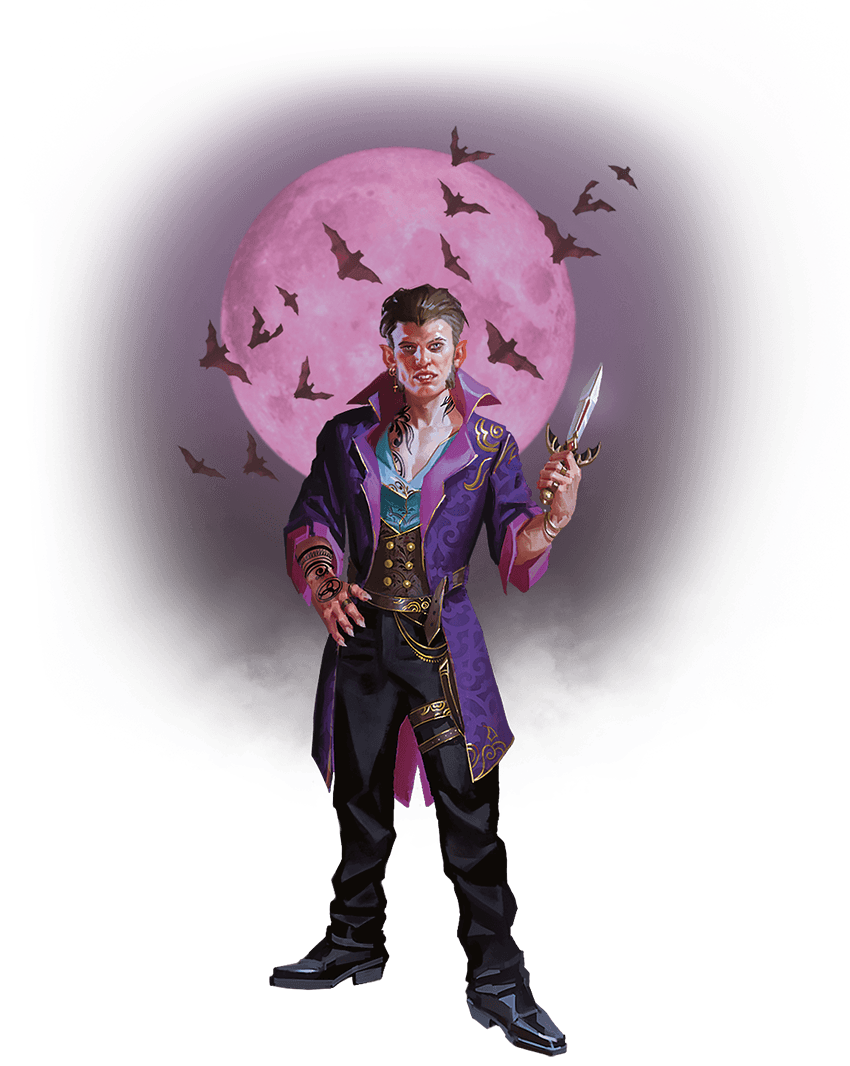
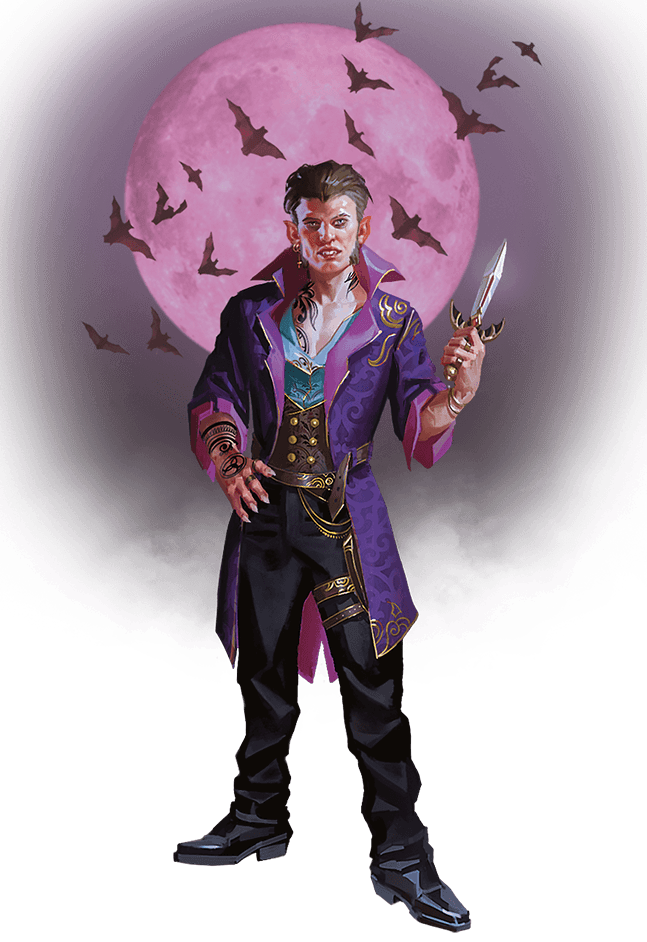
styling fixes

diff --git a/gui/step_species.py b/gui/step_species.py
@@ -70,6 +70,7 @@ class SpeciesStep(WizardStep):
         self._edit_initialized = False
         self._requires_sub_choice = False
         self._current_substep = 0
+        self._selected_species_name = ""
 
         # Two containers: grid view (substep 0) and detail view (substep 1)
         self._grid_frame = tk.Frame(self.frame, bg=COLORS["bg"])
@@ -297,6 +298,7 @@ class SpeciesStep(WizardStep):
             return
 
         self.character.species = sp
+        self._selected_species_name = sp.get("name", "")
         self._requires_sub_choice = False
         self.character.species_sub_choice = None
         self.character.species_origin_feat = None
@@ -305,15 +307,6 @@ class SpeciesStep(WizardStep):
         self.detail_source.configure(text=f"Source: {sp.get('source', 'Unknown')}")
         self.detail_desc.configure(text=sp.get("description", ""))
 
-        # Stats card
-        for w in self.stats_frame.winfo_children():
-            w.destroy()
-
-        stats_card = CardFrame(self.stats_frame, pad=SPACING["md"])
-        stats_card.pack(fill=tk.X)
-
-        stats_text = f"Type: {sp.get('creature_type', 'Humanoid')}  |  Speed: {sp.get('speed', 30)} ft"
-
         # Size choice
         for w in self.size_frame.winfo_children():
             w.destroy()
@@ -321,17 +314,9 @@ class SpeciesStep(WizardStep):
 
         size_data = sp.get("size", {})
         size_options = size_data.get("options", ["Medium"])
-        if len(size_options) <= 1:
-            self.character.size_choice = size_options[0]
-            stats_text += f"  |  Size: {size_options[0]}"
+        self.character.size_choice = size_options[0]
 
-        tk.Label(
-            stats_card.inner,
-            text=stats_text,
-            font=FONTS["body_bold"],
-            fg=COLORS["fg"],
-            bg=COLORS["bg_surface"],
-        ).pack(anchor="w")
+        self._build_species_stats_card(sp)
 
         if len(size_options) > 1:
             self.size_frame.pack(fill=tk.X, padx=SPACING["lg"], pady=(SPACING["sm"], 0))
@@ -509,8 +494,86 @@ class SpeciesStep(WizardStep):
 
     def _on_size_change(self, *args):
         self.character.size_choice = self.size_var.get()
+        species = self.character.species
+        if species and species.get("name", "") == self._selected_species_name:
+            self._build_species_stats_card(species)
         self.notify_change()
 
     def _on_sub_change(self, *args):
         self.character.species_sub_choice = self.sub_var.get()
         self.notify_change()
+
+    def _build_species_stats_card(self, species: dict):
+        """Render the stitched stat strip for the selected species."""
+        for w in self.stats_frame.winfo_children():
+            w.destroy()
+
+        strip = tk.Frame(self.stats_frame, bg=COLORS["bg"])
+        strip.pack(fill=tk.X)
+
+        tk.Frame(
+            strip,
+            bg=COLORS["border_subtle_bg"],
+            height=1,
+        ).pack(fill=tk.X, padx=SPACING["sm"])
+
+        stat_row = tk.Frame(strip, bg=COLORS["bg"])
+        stat_row.pack(fill=tk.X, padx=SPACING["lg"], pady=(SPACING["xl"], SPACING["xl"]))
+
+        stat_row.columnconfigure(0, weight=1, uniform="species_stats")
+        stat_row.columnconfigure(2, weight=1, uniform="species_stats")
+        stat_row.columnconfigure(4, weight=1, uniform="species_stats")
+
+        stats = [
+            ("Type", species.get("creature_type", "Humanoid"), COLORS["fg"]),
+            ("Speed", f"{species.get('speed', 30)} ft", COLORS["fg"]),
+            ("Size", self._species_size_value(species), COLORS["fg"]),
+        ]
+
+        for index, (label, value, value_color) in enumerate(stats):
+            column = index * 2
+            stat_cell = tk.Frame(stat_row, bg=COLORS["bg"])
+            stat_cell.grid(row=0, column=column, sticky="nsew")
+
+            tk.Label(
+                stat_cell,
+                text=label.upper(),
+                font=FONTS["label_upper"],
+                fg=COLORS["fg_dim"],
+                bg=COLORS["bg"],
+            ).pack(anchor="w")
+
+            tk.Label(
+                stat_cell,
+                text=value,
+                font=FONTS["archive_title"],
+                fg=value_color,
+                bg=COLORS["bg"],
+            ).pack(anchor="w", pady=(SPACING["sm"], 0))
+
+            if index < len(stats) - 1:
+                divider = tk.Frame(
+                    stat_row,
+                    bg=COLORS["border_medium_bg"],
+                    width=1,
+                    height=72,
+                )
+                divider.grid(row=0, column=column + 1, padx=SPACING["xl"], sticky="ns")
+                divider.grid_propagate(False)
+
+        tk.Frame(
+            strip,
+            bg=COLORS["border_subtle_bg"],
+            height=1,
+        ).pack(fill=tk.X, padx=SPACING["sm"])
+
+    def _species_size_value(self, species: dict) -> str:
+        """Return the currently displayed size label for the selected species."""
+        size_options = (species.get("size", {}) or {}).get("options", ["Medium"])
+        if len(size_options) <= 1:
+            return size_options[0]
+
+        selected_size = (self.character.size_choice or "").strip()
+        if selected_size in size_options:
+            return selected_size
+        return size_options[0]

diff --git a/gui/sheet_builder.py b/gui/sheet_builder.py
@@ -23,6 +23,7 @@ from models.standard_actions import (
     get_selected_weapon_counts,
 )
 from gui.widgets import AlertDialog, WrappingLabel, FormattedDescription, Chip
+from gui.species_trait_utils import get_species_trait_cards
 from models.language_utils import all_languages
 from models.inventory_service import (
     base_wealth_cp,
@@ -384,7 +385,7 @@ def build_character_sheet(
     if _show("species_traits") and c.species and c.species.get("traits"):
         traits_frame = ttk.LabelFrame(parent, text=f"{c.species_name} Traits")
         traits_frame.pack(fill=tk.X, pady=section_pady)
-        for trait in c.species["traits"]:
+        for trait in get_species_trait_cards(c.species):
             ttk.Label(
                 traits_frame,
                 text=f"  {trait['name']}",
@@ -397,6 +398,19 @@ def build_character_sheet(
                     text=trait["description"],
                     foreground=COLORS["fg_dim"],
                 ).pack(fill=tk.X, anchor="w", padx=16, pady=(0, 4))
+            for subtrait in trait.get("subtraits", []):
+                ttk.Label(
+                    traits_frame,
+                    text=f"    {subtrait['name']}",
+                    foreground=COLORS["fg_bright"],
+                    font=FONTS["body"],
+                ).pack(anchor="w", padx=8, pady=(2, 0))
+                if subtrait.get("description"):
+                    FormattedDescription(
+                        traits_frame,
+                        text=subtrait["description"],
+                        foreground=COLORS["fg_dim"],
+                    ).pack(fill=tk.X, anchor="w", padx=24, pady=(0, 4))
 
     # ── Class Features ──────────────────────────────────────────
     if _show("class_features") and c.character_class:

diff --git a/gui/species_trait_utils.py b/gui/species_trait_utils.py
@@ -11,6 +11,12 @@ _TRAIT_GROUPS: dict[str, dict[str, list[str]]] = {
             "Necrotic Shroud",
         ],
     },
+    "Dhampir": {
+        "Vampiric Bite": [
+            "Drain",
+            "Strengthen",
+        ],
+    },
 }
 
 